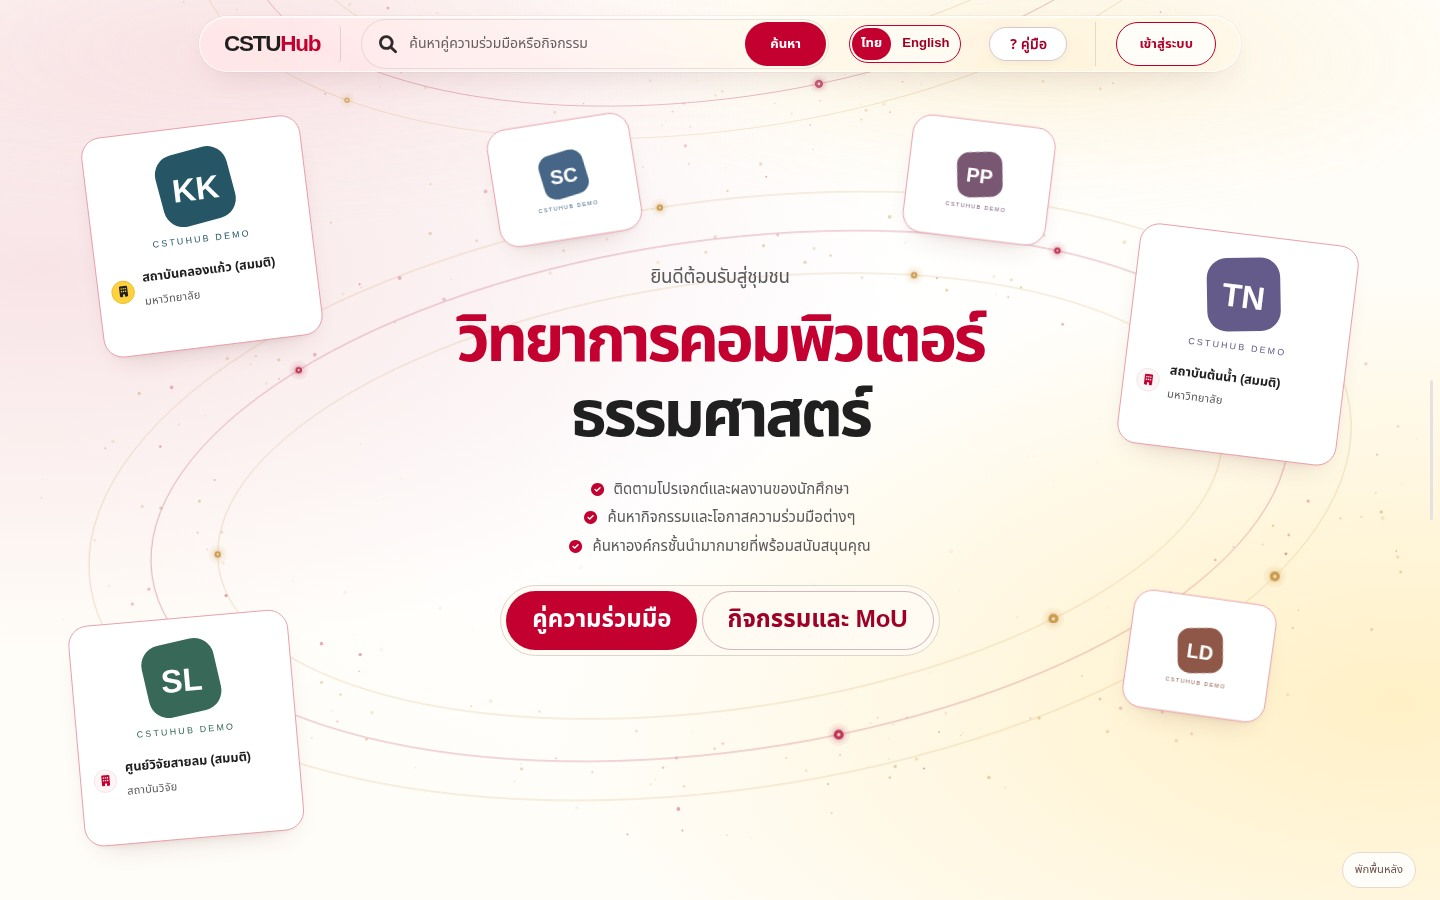
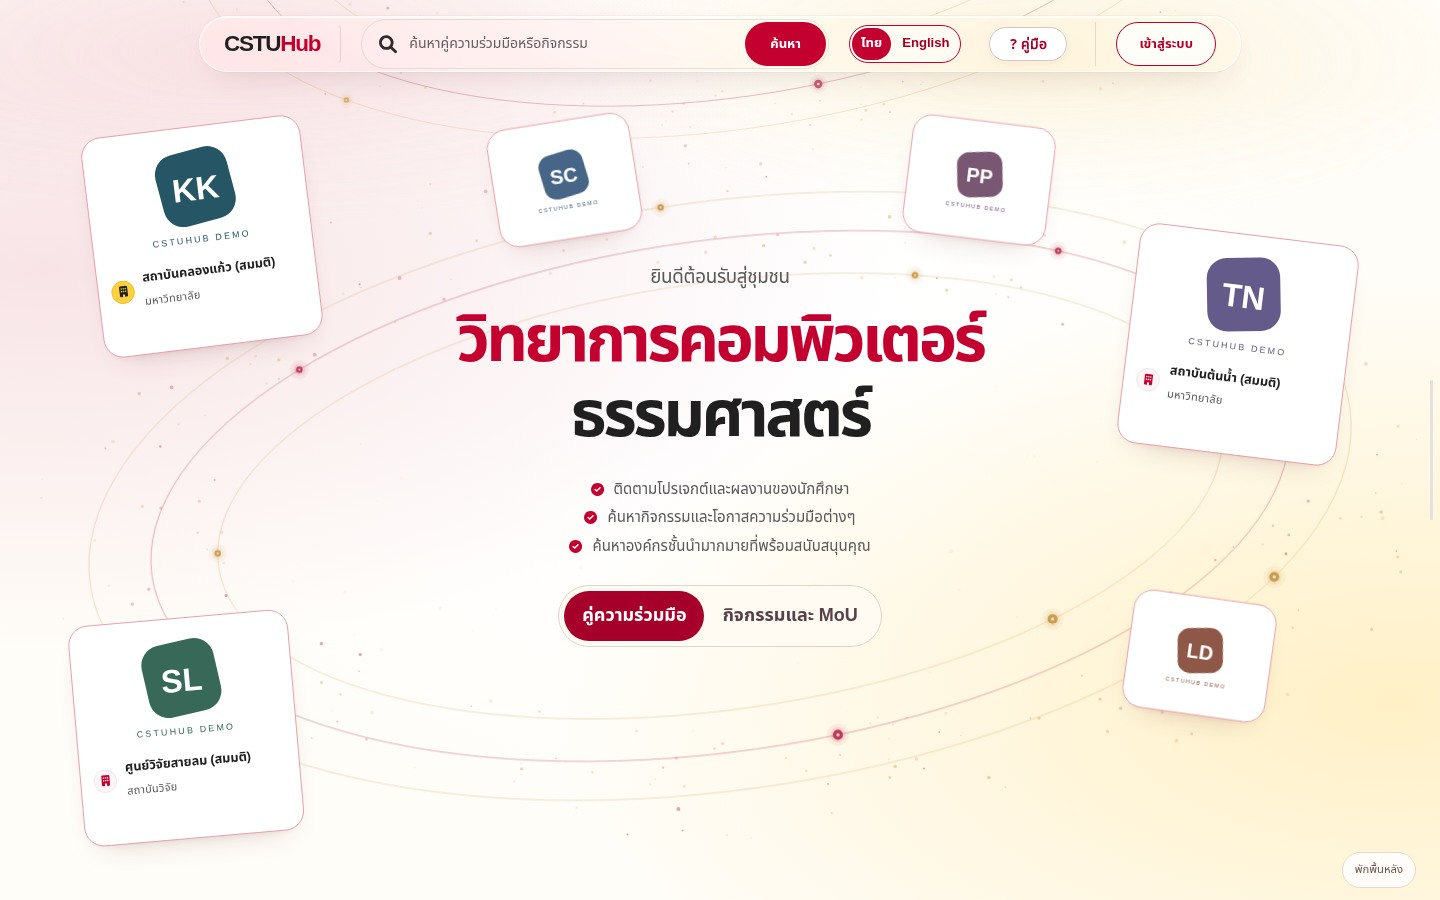
Soften the Welcome category buttons and restore their original palette

Changed region(s): [[0.3438, 0.6533, 0.625, 0.7467]]

diff --git a/public/assets/opening.css b/public/assets/opening.css
@@ -238,26 +238,19 @@
     border-color: #ddd5cb;
 }
 .browse-tabs:not(.browse-at-board) .tab { color: #59414a; }
-.browse-hero-slot .browse-tabs { gap: 4px; }
 .browse-hero-slot .browse-tabs .tab {
-    min-height: 58px;
-    padding: .5em clamp(12px, 1.8vw, 28px);
-    font-size: clamp(1.0625rem, .9rem + .9vw, 1.6rem);
-    font-weight: 800;
+    min-height: 50px;
+    padding: 7px clamp(12px, 1.25vw, 18px);
+    font-size: clamp(1rem, .85rem + .45vw, 1.2rem);
+    font-weight: 700;
     line-height: 1.45;
     white-space: normal;
-}
-.browse-hero-slot .browse-tabs .tab:not(.active) {
-    color: var(--tu-red-hover);
-    box-shadow: inset 0 0 0 1px #d5b6ba;
 }
 .browse-hero-slot .browse-tabs .tab:focus-visible { outline-width: 3px; }
 .browse-tabs:not(.browse-at-board) .tab.active { color: #fff; }
 .browse-tabs:not(.browse-at-board) .tab.active,
 .browse-tabs:not(.browse-at-board) .tab-indicator { background: #a6002a; }
 .browse-tabs:not(.browse-at-board).has-indicator .tab.active { background: transparent; }
-.browse-hero-slot .browse-tabs .tab-indicator,
-.browse-hero-slot .browse-tabs:not(.has-indicator) .tab.active { background: var(--tu-red); }
 .browse-tabs:not(.browse-at-board) .tab:not(.active):hover { color: #772439; background: #f6e8df; }
 .browse-tabs.browse-at-board { background: #fff; border-color: #ddd5cb; }
 .browse-tabs .tab:focus-visible { outline: 2px solid currentColor; outline-offset: -4px; }
@@ -277,7 +270,6 @@ body:not(.feedback-inbox-view) .board-scene:has(.browse-board-slot) { min-height
     .browse-hero-slot .browse-tabs { width: min(100%, 30rem); }
     .browse-hero-slot .browse-tabs .tab {
         flex: 1 1 0;
-        min-height: 54px;
         padding-inline: 2px;
     }
     /* Give the longer public category label room when there are just two buttons. */

diff --git a/public/index.html b/public/index.html
@@ -19,7 +19,7 @@
     <link rel="stylesheet" href="assets/spatial.css?v=intro-balanced-1">
     <link rel="stylesheet" href="assets/showcase.css?v=4">
     <link rel="stylesheet" href="assets/cinematic.css?v=1">
-    <link rel="stylesheet" href="assets/opening.css?v=welcome-category-buttons">
+    <link rel="stylesheet" href="assets/opening.css?v=welcome-category-muted">
     <link rel="stylesheet" href="assets/portal.css?v=6">
     <link rel="stylesheet" href="assets/constellation.css?v=mobile-header-1">
     <script src="assets/public-english.js?v=board-date-format" defer></script>
